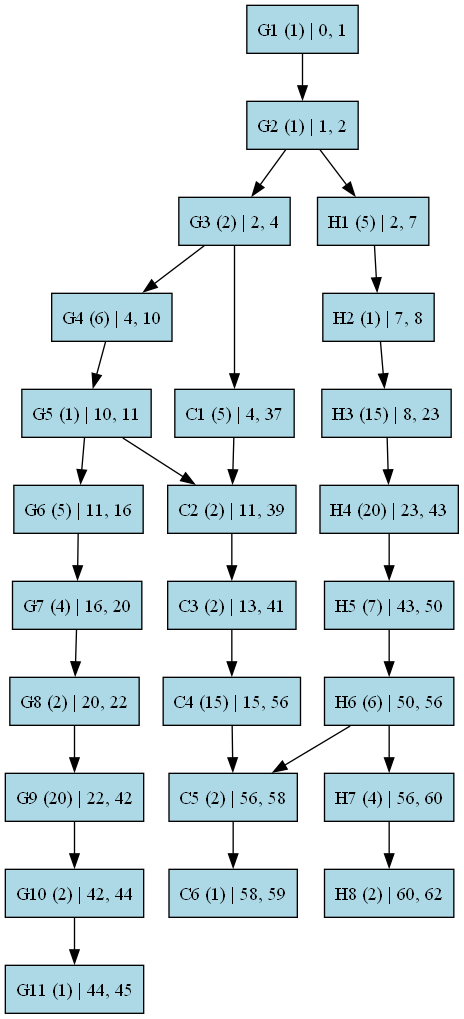
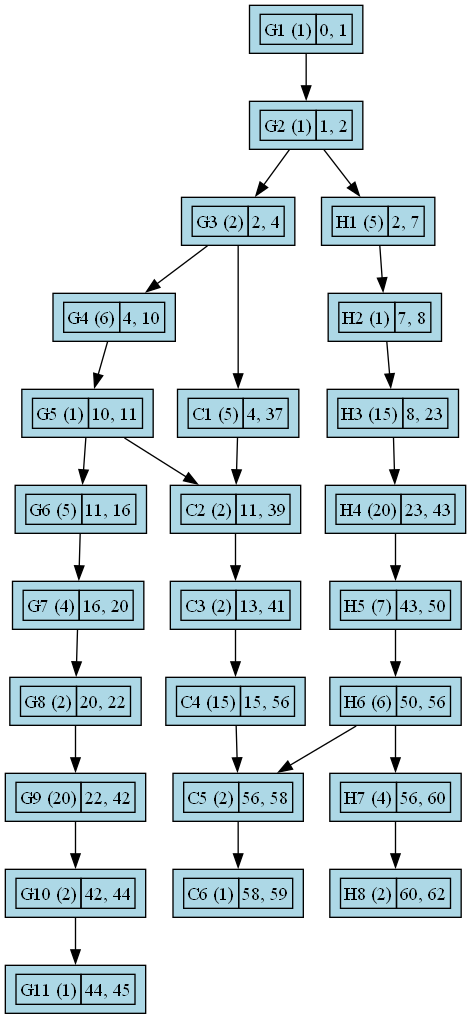
Refactor main.cpp to improve DOT file formatting

diff --git a/src/main.cpp b/src/main.cpp
@@ -111,9 +111,9 @@ int main() {
     // Write the DOT file header
     outputFile << "digraph G {" << std::endl;
 
-    // Write the tasks to the DOT file. Format: "ID [label="Name (duration) | Start, Finish"];"
+    // Write the tasks to the DOT file
     for (auto& task : tasks) {
-        outputFile << "  " << task->getID() << " [shape=rect, style=filled, fillcolor=lightblue, label=\"" << task->getID() << " (" << task->getDuration() << ") | " << task->getStart() << ", " << task->getFinish() << "\"];" << std::endl;
+        outputFile << "  " << task->getID() << " [shape=rect, style=filled, fillcolor=lightblue, label=<<table border=\"0\" cellborder=\"1\" cellspacing=\"0\"><tr><td>" << task->getID() << " (" << task->getDuration() << ")</td><td>" << task->getStart() << ", " << task->getFinish() << "</td></tr></table>>];" << std::endl;
     }
 
     // Write the edges to the DOT file
